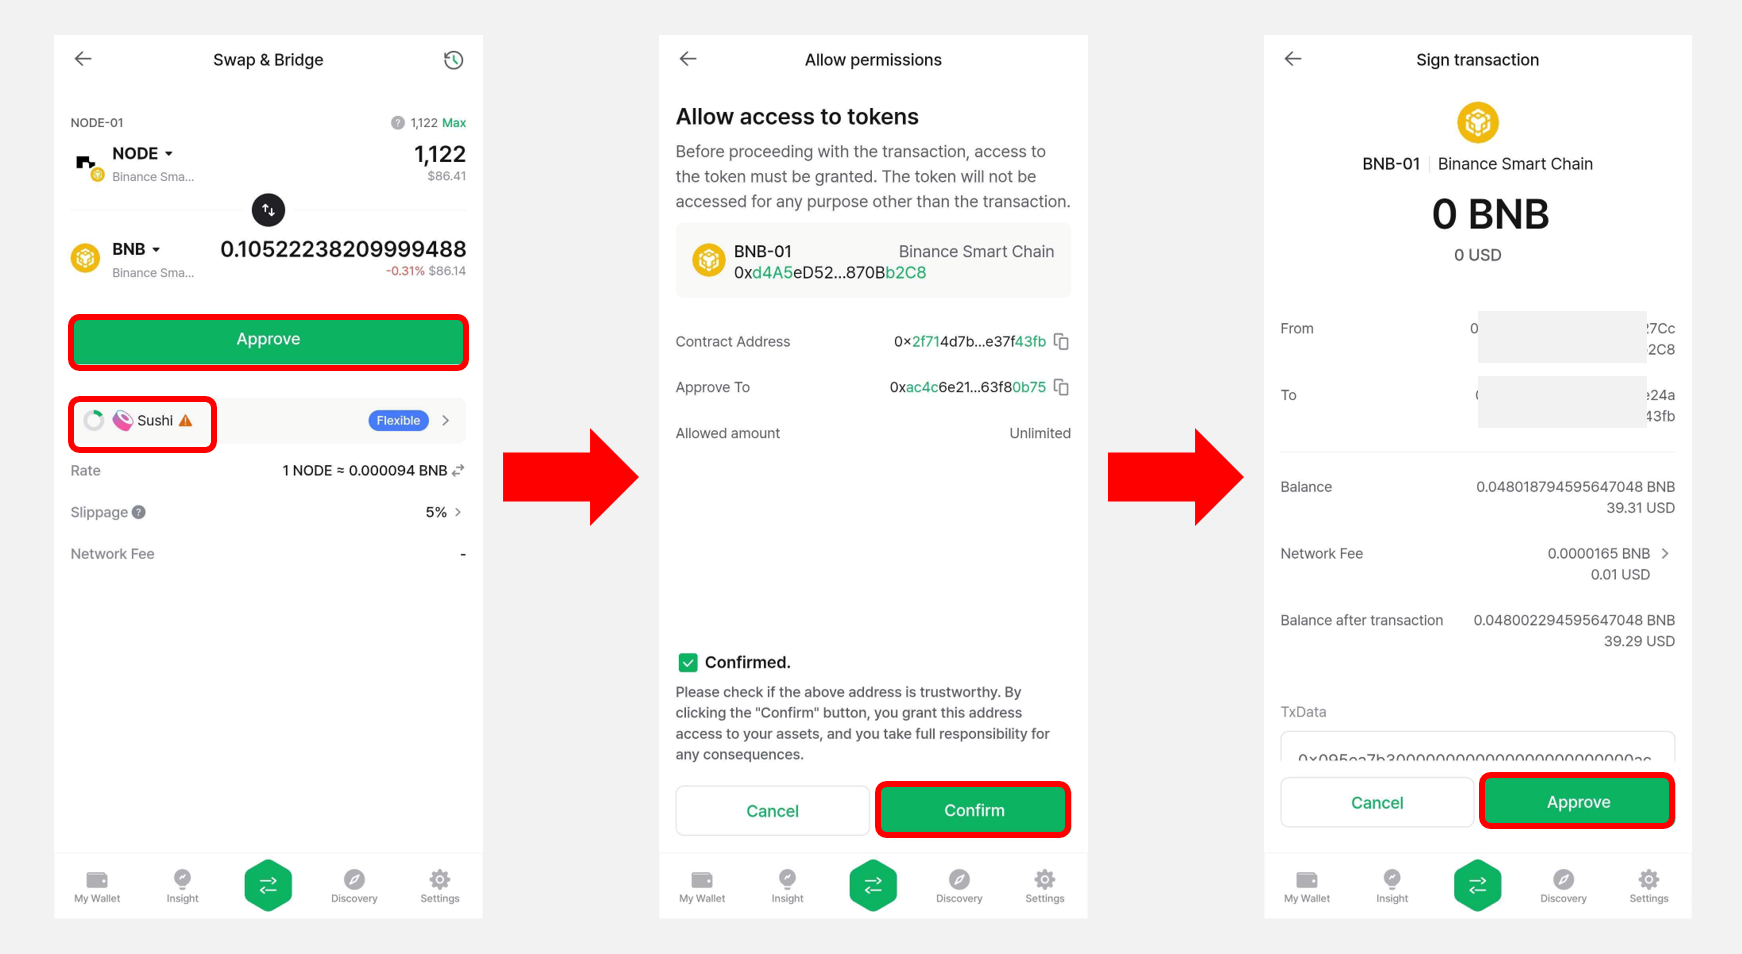
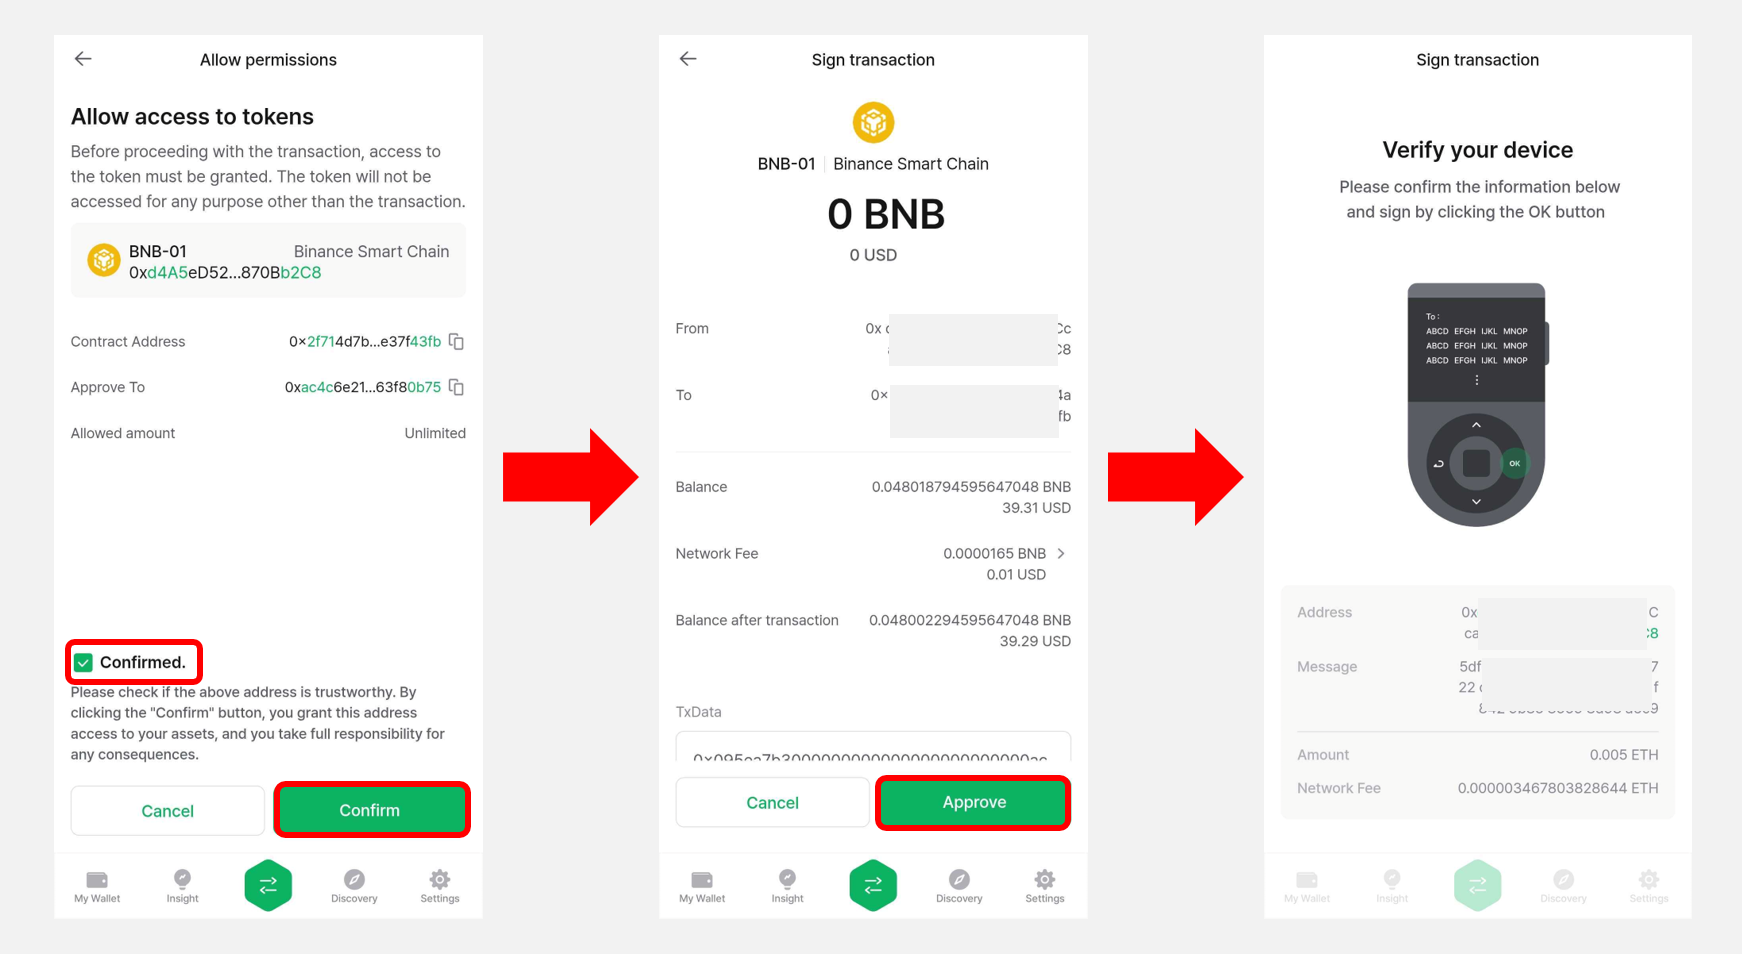
GITBOOK-724: change request with no subject merged in GitBook

diff --git a/native-service/swap.md b/native-service/swap.md
@@ -114,26 +114,39 @@ You can check the exchange rate information. In this case, there are two exchang
 
 
 
-## **Sign the Transaction and Complete the Swap**
+## Approve Token
 
-**1)** After setting the slippage or customizing the exchange rate and reviewing the final quote, tap the **"Swap"** button. Next, review the transaction details and tap **"Confirm"** or **"Send"**.&#x20;
+**1)** If the token selected in the From field is based on the ERC-20 standard and the transaction is being processed through a decentralized exchange (DEX), the **"Approve"** button will appear instead of the **"Swap"** button. You must first tap **"Approve"** to authorize the token before proceeding with the swap.
 
-To complete the transaction, check the signature request and authorize it using your fingerprint or PIN in the wallet.
-
-<div align="left"><figure><img src="../.gitbook/assets/Swap-12.png" alt=""><figcaption></figcaption></figure></div>
-
-If the token selected in the **From** field is based on the ERC-20 standard, the **"Approve"** button will appear instead of the **"Swap"** button. You must first tap **"Approve"** to authorize the token.\
-This approval step allows the service provider to access the token for swapping.
-
+This approval step allows the DEX service provider to access the token for swapping. \
 For example, if the quoted provider is **1inch**, you will need to approve access to the token for **1inch** in order to proceed with the swap.
+
+<div align="left"><figure><img src="../.gitbook/assets/Swap-18.png" alt="" width="388"><figcaption></figcaption></figure></div>
+
+
+
+**2)** Tap the **"Approve"** button, check the **"Confirmed."** box on the next screen, and then tap **"Confirm"**.\
+Review the transaction signature details, tap **"Approve"**, and complete the signature by authenticating with your fingerprint or PIN in the wallet.
 
 <figure><img src="../.gitbook/assets/Swap-13.png" alt=""><figcaption></figcaption></figure>
 
-After the approval is complete, re-enter the amount to swap. If the same service provider (e.g., **1inch**) is selected in the quote again, the **"Swap"** button will now appear.
+
+
+**3)** After the approval is complete, re-enter the amount to swap. If the same service provider (e.g., **1inch**) is selected in the quote again, the **"Swap"** button will now appear.
 
 The provider will also be marked as **"Approved"** in the provider list.
 
 <figure><img src="../.gitbook/assets/Swap-14.png" alt=""><figcaption></figcaption></figure>
+
+
+
+## **Sign the Transaction and Complete the Swap**
+
+**1)** Once you have completed the token approval, tap the **"Swap"** button. Next, review the transaction details and tap **"Confirm"** or **"Send"**.&#x20;
+
+To complete the transaction, check the signature request and authorize it using your fingerprint or PIN in the wallet.
+
+<div align="left"><figure><img src="../.gitbook/assets/Swap-12.png" alt=""><figcaption></figcaption></figure></div>
 
 
 
